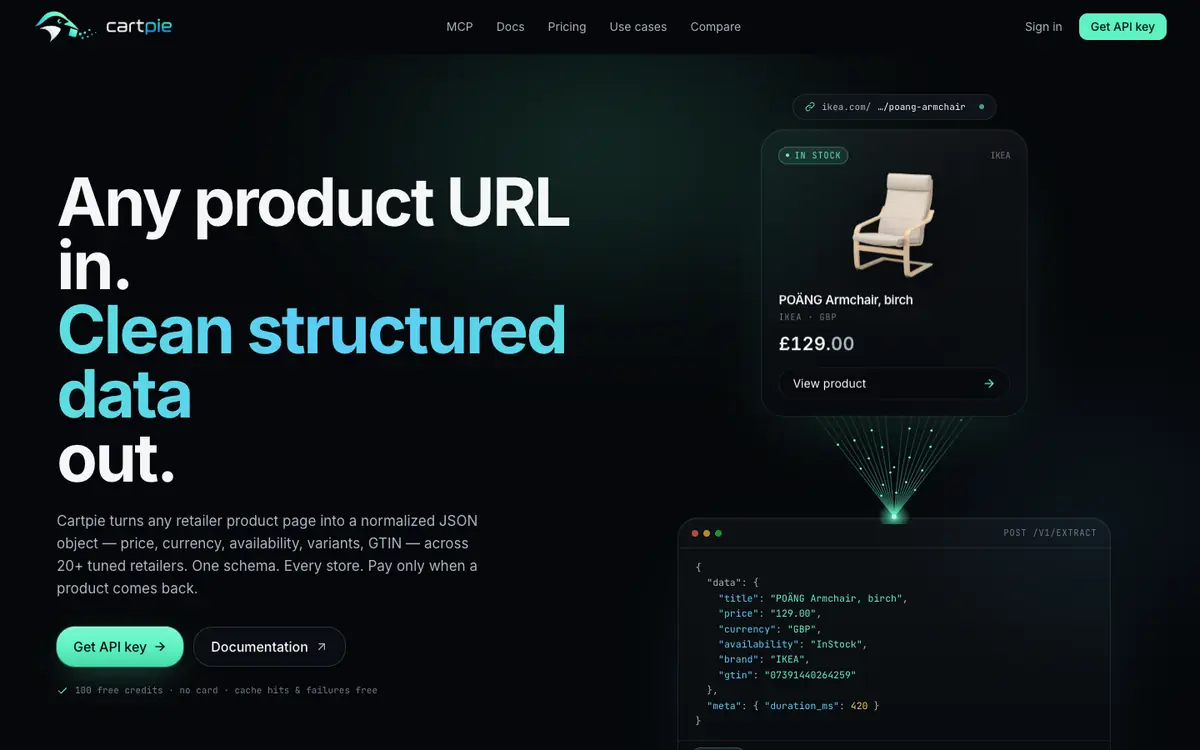
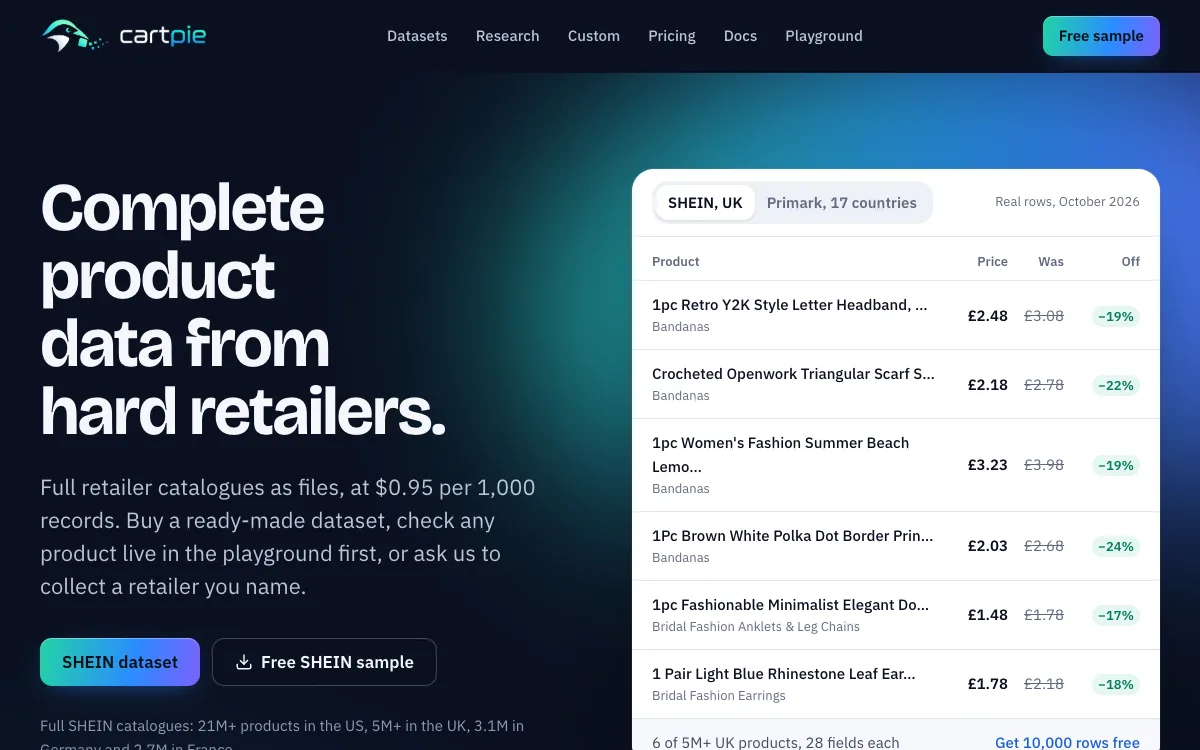
Hero shows real SHEIN US dataset rows instead of the API-style lookup; new Cartpie screenshot and card copy; intro links Cartpie

diff --git a/site/index.html b/site/index.html
@@ -63,7 +63,7 @@
     <div>
       <p class="status"><span class="dot" aria-hidden="true"></span>CTO, Engineering and fractional work</p>
       <h1 class="headline" id="h1">I scrape the web at scale, build software products and <span class="serif">cut cloud bills.</span></h1>
-      <p class="intro">I'm a lead engineer and former CTO. I've built and run production systems for 10+ years: two startups as <b>founding engineer</b>, an award-winning UK insurer as <b>CTO</b>, and a data platform that reads <b>30,000+ online shops</b>.</p>
+      <p class="intro">I'm a lead engineer and former CTO. I've built and run production systems for 10+ years: two startups as <b>founding engineer</b>, an award-winning UK insurer as <b>CTO</b>, and a data platform that reads <b>30,000+ online shops</b>. Now I run <a href="https://cartpie.com">Cartpie</a>, which sells whole retailer catalogues as data files.</p>
       <div class="btns">
         <a class="btn primary" href="#contact">Work with me <span class="arr" aria-hidden="true">→</span></a>
         <a class="btn" href="#built">See what I build <span class="arr" aria-hidden="true">↓</span></a>
@@ -75,39 +75,29 @@
     </div>
 
     <aside class="panel demo" aria-labelledby="demo-h">
-      <div class="panel-head"><span>Cartpie · free product lookup</span><span class="live">200 OK</span></div>
-      <h2 id="demo-h">A product URL in. Clean JSON out.</h2>
-      <div class="req"><span class="verb">Lookup</span><span class="url"><span class="typed">primark.com/…/joggers-navy</span></span></div>
-      <div class="page" aria-hidden="true">
-        <div class="pg-bar"><i></i><i></i><i></i><span>primark.com/…/joggers-navy</span></div>
-        <div class="pg-body">
-          <div class="pg-img fld d0">
-            <svg viewBox="0 0 80 80" aria-hidden="true"><path d="M26 12 H54 L58 70 H45 L40 34 L35 70 H22 Z" class="ch"/><path d="M38 13 L37 21 M42 13 L43 21" class="cl"/></svg>
-          </div>
-          <div class="pg-info">
-            <span class="fld f-brand d1">Primark</span>
-            <span class="fld f-title d3">Essential Cargo Joggers</span>
-            <span class="fld f-price d5">£12.00</span>
-            <span class="fld f-stock d7">In stock</span>
-            <span class="skel"></span><span class="skel s2"></span>
-          </div>
-        </div>
-        <div class="beam"></div>
+      <div class="panel-head"><span>Cartpie · real rows</span><span class="live">Nov 2026</span></div>
+      <h2 id="demo-h">A whole store in one file.</h2>
+      <div class="req"><span class="verb">Snapshot</span><span class="url"><span class="typed">us.shein.com: all products</span></span></div>
+      <div class="page sheet">
+        <div class="pg-bar" aria-hidden="true"><i></i><i></i><i></i><span>shein_us_products_2026-11-11.parquet</span></div>
+        <table class="rows" aria-label="Five rows from the SHEIN US catalogue, 11 November 2026">
+          <thead><tr><th scope="col">Product</th><th scope="col">Price</th><th scope="col">Was</th><th scope="col">Off</th></tr></thead>
+          <tbody>
+            <tr class="d2"><td>DAZY Polka Dot Puff Sleeve Blouse<small>Women Apparel</small></td><td>$12.89</td><td><s>$16.39</s></td><td><em>−21%</em></td></tr>
+            <tr class="d4"><td>1PC Western Cowboy Vintage Belt<small>Apparel Accessories</small></td><td>$6.72</td><td><s>$9.20</s></td><td><em>−27%</em></td></tr>
+            <tr class="d6"><td>Mini Broom Set<small>Home &amp; Living</small></td><td>$8.00</td><td><s>$18.70</s></td><td><em>−57%</em></td></tr>
+            <tr class="d8"><td>Corner Sofa Corduroy -Blue<small>Tools &amp; Home Improvement</small></td><td>$184.90</td><td><s>$341.80</s></td><td><em>−46%</em></td></tr>
+            <tr class="d10"><td>Lace Trimmed Fitted Blazer<small>Women Apparel</small></td><td>$26.99</td><td><s>$360.35</s></td><td><em>−93%</em></td></tr>
+          </tbody>
+        </table>
+        <div class="beam" aria-hidden="true"></div>
       </div>
-      <pre class="json"><code><span class="j d0">{ <i class="k">"data"</i>: {</span>
-<span class="j d2">    <i class="k">"title"</i>: <i class="s">"Essential Cargo Joggers"</i>,</span>
-<span class="j d4">    <i class="k">"price"</i>: <i class="s">"12.00"</i>,</span>
-<span class="j d6">    <i class="k">"currency"</i>: <i class="s">"GBP"</i>,</span>
-<span class="j d8">    <i class="k">"availability"</i>: <i class="s">"inStock"</i>,</span>
-<span class="j d9">    <i class="k">"brand"</i>: <i class="s">"Primark"</i>,</span>
-<span class="j d10">    <i class="k">"color"</i>: <i class="s">"navy"</i></span>
-<span class="j d11">  }, <i class="k">"meta"</i>: { <i class="k">"cached"</i>: <i class="n">false</i> } }</span></code></pre>
       <div class="panel-stats">
-        <div><b>Free</b><span>lookups, no sign-up</span></div>
-        <div><b>$0.95</b><span>per 1,000 records as files</span></div>
+        <div><b>21M+</b><span>SHEIN products in the US file</span></div>
         <div><b>17</b><span>Primark countries, local prices</span></div>
+        <div><b>$0.95</b><span>per 1,000 records, no minimum</span></div>
       </div>
-      <a class="panel-link" href="https://cartpie.com/playground" rel="noopener">Try a product on cartpie.com ↗</a>
+      <p class="panel-links"><a class="panel-link" href="https://cartpie.com/datasets/shein/sample" rel="noopener">Free 10,000-row samples ↗</a><a class="panel-link" href="https://cartpie.com/playground" rel="noopener">Check a product free ↗</a></p>
     </aside>
   </div>
 </section>
@@ -137,10 +127,10 @@
     </div>
     <div class="products">
       <a class="product" href="https://cartpie.com" rel="noopener">
-        <div class="shot"><div class="bar"><i></i><i></i><i></i><span>cartpie.com</span></div><img src="/assets/products/cartpie.webp" width="1200" height="750" loading="lazy" alt="Cartpie homepage: any product URL in, clean structured data out"></div>
+        <div class="shot"><div class="bar"><i></i><i></i><i></i><span>cartpie.com</span></div><img src="/assets/products/cartpie.webp" width="1200" height="750" loading="lazy" alt="Cartpie homepage: complete product data from hard retailers, full catalogues as files at $0.95 per 1,000 records, with real SHEIN rows"></div>
         <div class="body">
           <div class="top"><h3>Cartpie</h3><span class="tag">Founder</span></div>
-          <p>Retail product data as files. Full SHEIN catalogues for the US, UK, Germany and France, Primark in 17 countries, and custom collections for the retailers you name, at $0.95 per 1,000 records. You can check any SHEIN or Primark product free before buying.</p>
+          <p>Retail product data as files: full SHEIN catalogues for the US, UK, Germany and France, Primark in 17 countries, and custom collections for the retailers you name, at $0.95 per 1,000 records. You can check any SHEIN or Primark product free before buying. Strangest find so far: two hair dyes listed at $18 billion on SHEIN US.</p>
           <span class="go">cartpie.com ↗</span>
         </div>
       </a>

diff --git a/site/assets/site.css b/site/assets/site.css
@@ -273,7 +273,7 @@ footer.foot a { color: var(--ink-3); }
 
 /* Responsive */
 @media (max-width: 960px) {
-  .hero .wrap { grid-template-columns: 1fr; }
+  .hero .wrap { grid-template-columns: minmax(0, 1fr); }
   .sec-head { grid-template-columns: 1fr; gap: 14px; }
   .case, .case.flip { grid-template-columns: 1fr; }
   .split { grid-template-columns: 1fr; }
@@ -315,37 +315,29 @@ footer.foot a { color: var(--ink-3); }
 .pg-bar { display: flex; align-items: center; gap: 5px; padding: 7px 10px; background: #e9e7e0; font: 400 10.5px/1 var(--mono); color: #7c7a72; }
 .pg-bar i { width: 7px; height: 7px; border-radius: 50%; background: #cfcbc0; }
 .pg-bar span { margin-left: 8px; }
-.pg-body { display: grid; grid-template-columns: 92px 1fr; gap: 14px; padding: 12px; align-items: center; }
-.pg-img.fld { margin-left: 0; padding: 0; }
-.pg-img { aspect-ratio: 1; border-radius: 8px; background: #e2ddd1; display: grid; place-items: center; }
-.pg-img svg { width: 70%; }
-.pg-img .ch { fill: #d8b98a; stroke: #a4844f; stroke-width: 1.5; }
-.pg-img .cl { stroke: #a4844f; stroke-width: 3; stroke-linecap: round; }
-.pg-info { display: flex; flex-direction: column; align-items: flex-start; gap: 5px; }
-.fld { padding: 1px 4px; margin-left: -4px; border-radius: 5px; outline: 1.5px solid transparent; outline-offset: 2px; animation: hl 9s infinite; animation-delay: var(--d); }
-@keyframes hl { 0%, 24% { outline-color: transparent; background-color: transparent; } 27%, 88% { outline-color: var(--ok); background-color: rgba(31,157,85,.10); } 94%, 100% { outline-color: transparent; background-color: transparent; } }
-.f-brand { font: 600 10.5px/1.2 var(--mono); letter-spacing: .08em; color: #7c7a72; }
-.f-title { font: 600 15px/1.25 var(--sans); }
-.f-price { font: 600 18px/1.2 var(--sans); }
-.f-stock { font: 500 11px/1 var(--mono); color: #1f9d55; background: rgba(31,157,85,.10); padding: 4px 7px; }
-.skel { display: block; height: 7px; width: 80%; border-radius: 4px; background: #e4e1d8; margin-top: 4px; }
-.skel.s2 { width: 55%; margin-top: 0; }
 .beam { position: absolute; left: 0; right: 0; height: 36px; top: -40px; background: linear-gradient(180deg, transparent, rgba(61,220,132,.28) 70%, rgba(61,220,132,.9)); pointer-events: none; animation: scan 9s infinite; }
 @keyframes scan { 0%, 14% { top: -40px; opacity: 0; } 16% { opacity: 1; } 30% { top: 100%; opacity: 1; } 32%, 100% { top: 100%; opacity: 0; } }
-.json { margin: 0; background: var(--panel-2); border: 1px solid var(--panel-line); border-radius: 10px; padding: 11px 12px; font: 400 12px/1.6 var(--mono); color: var(--panel-ink-2); overflow-x: auto; white-space: pre; }
-.json i { font-style: normal; }
-.json .k { color: #9ecbff; }
-.json .s { color: #b9e6a0; }
-.json .n { color: #ffb38a; }
-.json .j { display: inline; opacity: 0; animation: jl 9s infinite; animation-delay: var(--d); }
-@keyframes jl { 0%, 31% { opacity: 0; } 34%, 90% { opacity: 1; } 96%, 100% { opacity: 0; } }
-.panel-link { position: relative; display: inline-block; margin-top: 12px; font: 500 12.5px/1 var(--mono); color: var(--accent); text-decoration: none; }
+/* Dataset sheet: real rows, each lit up as the beam passes over it */
+.sheet .rows { width: 100%; table-layout: fixed; border-collapse: collapse; font: 600 12.5px/1.3 var(--sans); font-variant-numeric: tabular-nums; }
+.sheet th { font: 500 10px/1 var(--mono); letter-spacing: .06em; text-transform: uppercase; color: #7c7a72; text-align: right; padding: 9px 10px 7px; border-bottom: 1px solid #e2ded3; }
+.sheet th:nth-child(2), .sheet th:nth-child(3) { width: 66px; }
+.sheet th:nth-child(4) { width: 56px; }
+.sheet td { padding: 6px 10px; border-bottom: 1px solid #ebe8df; text-align: right; white-space: nowrap; }
+.sheet tr:last-child td { border-bottom: 0; }
+.sheet th:first-child, .sheet td:first-child { text-align: left; }
+.sheet td:first-child { overflow: hidden; text-overflow: ellipsis; font-weight: 500; }
+.sheet td small { display: block; overflow: hidden; text-overflow: ellipsis; font: 400 10.5px/1.35 var(--sans); color: #7c7a72; }
+.sheet td s { font-weight: 400; color: #9a978d; }
+.sheet td em { font: 500 10.5px/1 var(--mono); font-style: normal; color: #1f9d55; background: rgba(31,157,85,.10); padding: 3px 5px; border-radius: 5px; }
+.sheet tbody td { animation: lit 9s infinite; animation-delay: var(--d); }
+@keyframes lit { 0%, 15% { background-color: transparent; } 18% { background-color: rgba(31,157,85,.14); } 30%, 100% { background-color: transparent; } }
+@media (max-width: 420px) { .sheet th:nth-child(3), .sheet td:nth-child(3) { display: none; } }
+.panel-links { position: relative; display: flex; flex-wrap: wrap; gap: 8px 20px; margin: 12px 0 0; }
+.panel-link { display: inline-block; font: 500 12.5px/1 var(--mono); color: var(--accent); text-decoration: none; }
 .panel-link:hover { color: var(--panel-ink); }
 @media (prefers-reduced-motion: reduce) {
-  .req .typed, .fld, .beam, .json .j { animation: none; }
-  .json .j { opacity: 1; }
+  .req .typed, .beam, .sheet tbody td { animation: none; }
   .beam { display: none; }
-  .fld { outline-color: var(--ok); }
 }
 
 /* Outcome panels next to each company story */
